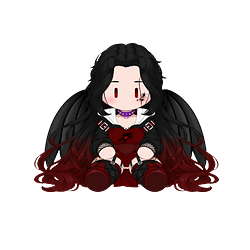
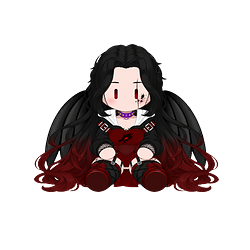
Ruby's eye scar redone; add Silvia to the SA Dollhouse plushies

diff --git a/BondageClub/Assets/Female3DCGExtended.js b/BondageClub/Assets/Female3DCGExtended.js
@@ -24738,6 +24738,7 @@ var AssetFemale3DCGExtended = {
 						{}, // Vvavv
 						{}, // Hana
 						{}, // Cholate
+						{}, // Silvia
 					],
 					DrawData: {
 						elementData: [
@@ -24759,6 +24760,9 @@ var AssetFemale3DCGExtended = {
 							},
 							{
 								imagePath: "Assets/Female3DCG/ItemHandheld/Plushie_Cholate.png",
+							},
+							{
+								imagePath: "Assets/Female3DCG/ItemHandheld/Plushie_Silvia.png",
 							},
 						],
 					},

diff --git a/BondageClub/Assets/Female3DCG.js b/BondageClub/Assets/Female3DCG.js
@@ -52631,6 +52631,10 @@ var AssetFemale3DCG = [
 						Name: "Cholate",
 						AllowTypes: { SADollhouse: 6 },
 					},
+					{
+						Name: "Silvia",
+						AllowTypes: { SADollhouse: 7 },
+					},
 				],
 			},
 			{
